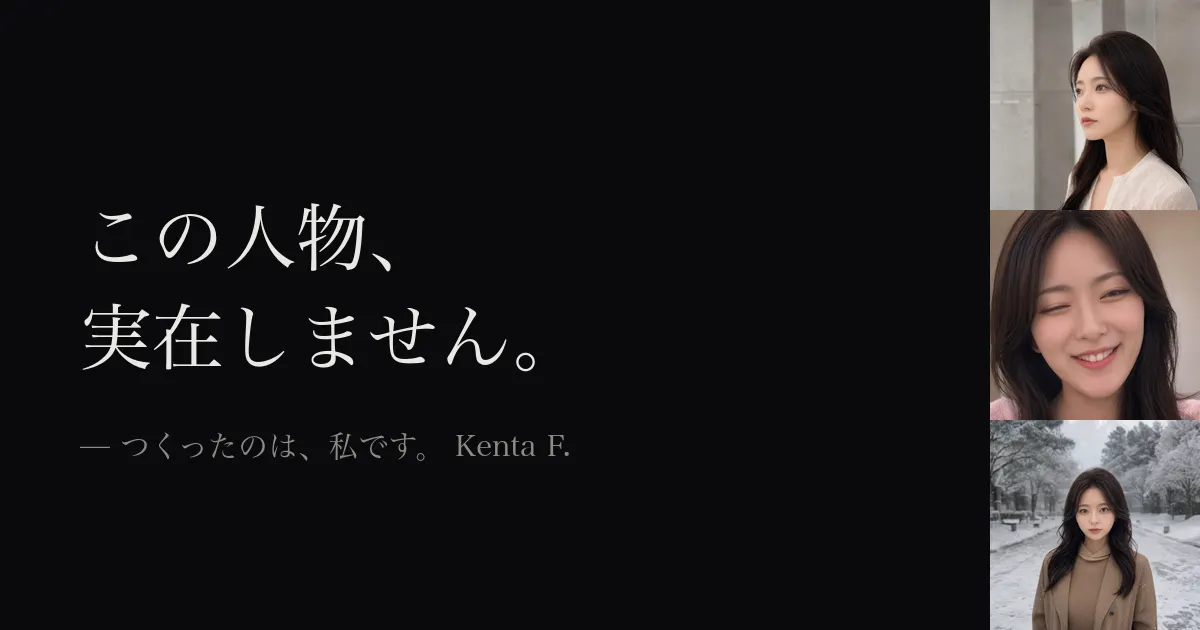
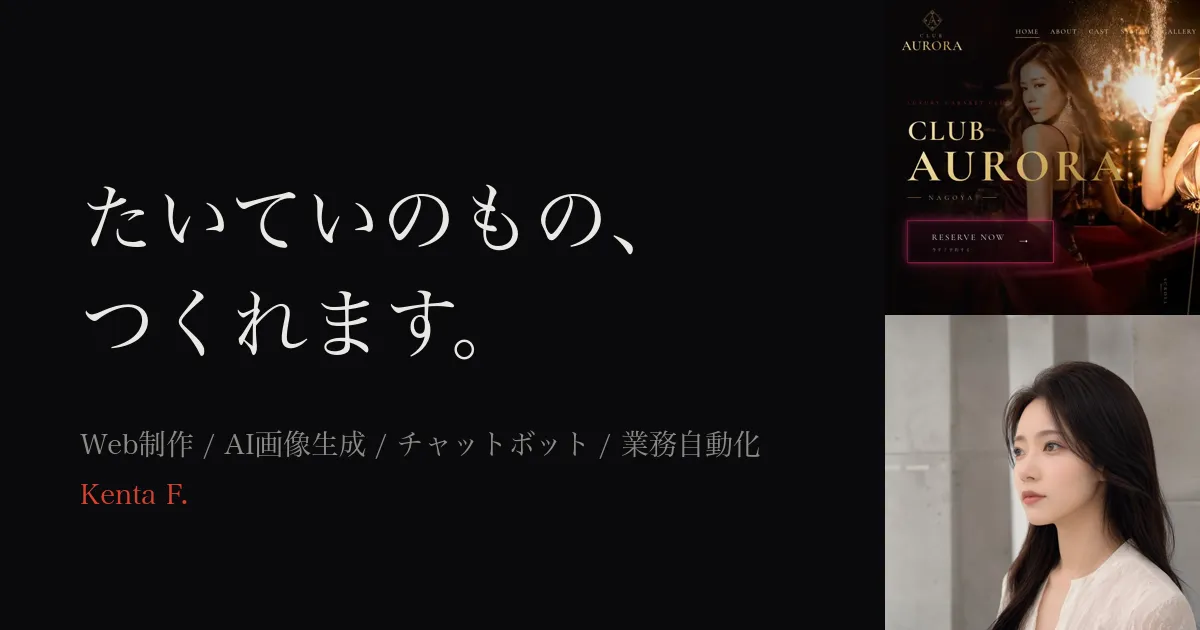
v2: capability card layout (web/AI/chatbot/automation)

diff --git a/index.html b/index.html
@@ -3,14 +3,14 @@
 <head>
 <meta charset="UTF-8">
 <meta name="viewport" content="width=device-width, initial-scale=1.0, viewport-fit=cover">
-<title>この人物、実在しません。— Kenta F.</title>
-<meta name="description" content="実在しない人物をAIで作り、SNSで運用しています。AIキャラクター制作・AI動画生成・業務自動化。Kenta F. の紹介ページ。">
+<title>たいていのもの、つくれます。— Kenta F.</title>
+<meta name="description" content="Webサイト制作・AI画像/キャラクター制作・チャットボット開発・業務自動化。Kenta F. のできることの名刺ページ。">
 <meta name="theme-color" content="#0a0a0c">
 
-<!-- OGP（デプロイ後に og:url / og:image を実URLへ差し替え） -->
+<!-- OGP -->
 <meta property="og:type" content="website">
-<meta property="og:title" content="この人物、実在しません。">
-<meta property="og:description" content="実在しない人物をAIで作って、SNSで運用しています。— Kenta F. / AIクリエイター・自動化エンジニア">
+<meta property="og:title" content="たいていのもの、つくれます。">
+<meta property="og:description" content="Web制作 / AI画像生成 / チャットボット / 業務自動化 — Kenta F.">
 <meta property="og:url" content="https://k243k.github.io/intro/">
 <meta property="og:image" content="https://k243k.github.io/intro/assets/og.webp">
 <meta name="twitter:card" content="summary_large_image">
@@ -36,53 +36,51 @@ body{
 img,video{display:block;max-width:100%;height:auto}
 a{color:inherit}
 
-/* ===== ヒーロー ===== */
-.hero{position:relative;min-height:100svh;overflow:hidden;display:flex;align-items:flex-end}
-.hero-grid{
-  position:absolute;inset:0;width:100%;height:100%;
-  object-fit:cover;object-position:center 20%;
-}
-.hero-veil{
-  position:absolute;inset:0;
-  background:linear-gradient(180deg,rgba(10,10,12,.25) 0%,rgba(10,10,12,.05) 35%,rgba(10,10,12,.55) 70%,rgba(10,10,12,.96) 100%);
-}
-.hero-inner{
-  position:relative;width:100%;
-  padding:0 24px calc(40px + env(safe-area-inset-bottom));
+/* ===== ヒーロー（タイポグラフィ主体・即時描画） ===== */
+.hero{
+  position:relative;min-height:92svh;overflow:hidden;
+  display:flex;flex-direction:column;justify-content:center;
+  padding:0 28px;
+  background:
+    radial-gradient(120% 90% at 80% 0%,#16161c 0%,var(--bg) 55%),
+    var(--bg);
 }
 .hero h1{
   font-family:var(--serif);font-weight:600;
-  font-size:clamp(30px,9vw,64px);line-height:1.45;letter-spacing:.06em;
-  opacity:0;animation:rise .9s ease-out .15s forwards;
+  font-size:clamp(34px,10vw,72px);line-height:1.5;letter-spacing:.06em;
+  opacity:0;animation:rise .9s ease-out .1s forwards;
 }
-.hero .turn{
-  margin-top:14px;font-family:var(--serif);
-  font-size:clamp(15px,4.2vw,22px);letter-spacing:.14em;color:var(--ink);
-  opacity:0;animation:rise .9s ease-out .8s forwards;
+.hero .sub{
+  margin-top:20px;font-size:clamp(13px,3.8vw,16px);
+  color:var(--ink-dim);letter-spacing:.12em;
+  opacity:0;animation:rise .9s ease-out .7s forwards;
 }
 .hero .who{
-  margin-top:26px;display:flex;align-items:baseline;gap:14px;flex-wrap:wrap;
-  opacity:0;animation:rise .9s ease-out 1.3s forwards;
+  margin-top:34px;display:flex;align-items:baseline;gap:14px;flex-wrap:wrap;
+  opacity:0;animation:rise .9s ease-out 1.1s forwards;
 }
-.hero .who .name{font-size:17px;letter-spacing:.18em;font-weight:600}
+.hero .who .name{font-size:18px;letter-spacing:.18em;font-weight:600}
 .hero .who .role{font-size:12px;color:var(--ink-dim);letter-spacing:.16em}
 /* 朱の角印 */
 .seal{
-  position:absolute;right:24px;bottom:calc(140px + env(safe-area-inset-bottom));
+  position:absolute;right:28px;top:calc(12svh + env(safe-area-inset-top));transform:rotate(3deg);
   writing-mode:vertical-rl;font-family:var(--serif);
   font-size:15px;letter-spacing:.3em;color:var(--shu);
   border:1.5px solid var(--shu);padding:12px 7px;line-height:1;
-  transform:rotate(3deg);opacity:0;animation:stamp .5s ease-out 1.9s forwards;
+  opacity:0;animation:stamp .5s ease-out 1.6s forwards;
 }
 @keyframes rise{from{opacity:0;transform:translateY(16px)}to{opacity:1;transform:none}}
-@keyframes stamp{from{opacity:0;transform:rotate(3deg) scale(1.6)}to{opacity:.92;transform:rotate(3deg) scale(1)}}
+@keyframes stamp{
+  from{opacity:0;transform:rotate(3deg) scale(1.6)}
+  to{opacity:.92;transform:rotate(3deg) scale(1)}
+}
 @media (prefers-reduced-motion:reduce){
-  .hero h1,.hero .turn,.hero .who,.seal{animation:none;opacity:1}
+  .hero h1,.hero .sub,.hero .who,.seal{animation:none;opacity:1}
 }
 
 /* ===== 本文共通 ===== */
 main{max-width:680px;margin:0 auto;padding:0 24px}
-section{padding:72px 0 0}
+section{padding:76px 0 0}
 .idx{
   font-family:var(--serif);font-size:12px;letter-spacing:.3em;
   color:var(--shu);margin-bottom:14px;
@@ -96,21 +94,33 @@ h2{
 figure{margin-top:28px}
 figcaption{font-size:11px;color:var(--ink-dim);letter-spacing:.12em;margin-top:10px}
 
-/* スクロールリビール（JS有効時のみ隠す。JS無効でも全文表示される） */
+/* スクロールリビール（JS有効時のみ隠す） */
 .js .rv{opacity:0;transform:translateY(18px);transition:opacity .8s ease,transform .8s ease}
 .js .rv.in{opacity:1;transform:none}
 @media (prefers-reduced-motion:reduce){.js .rv{opacity:1;transform:none;transition:none}}
 
-/* ビフォーアフター */
-.ba{display:grid;grid-template-columns:1fr 1fr;gap:10px}
-.ba img{width:100%;aspect-ratio:4/5;object-fit:cover;background:var(--bg2)}
-.ba .tag{font-size:10px;letter-spacing:.26em;color:var(--ink-dim);margin-top:8px}
+/* 実物メディア */
+.shot img,.shot video{width:100%;aspect-ratio:4/5;object-fit:cover;background:var(--bg2)}
 
-/* 動画 */
-.demo video{width:100%;aspect-ratio:4/5;object-fit:cover;background:var(--bg2)}
+/* チャットモック */
+.chat{
+  margin-top:28px;border:1px solid var(--line);background:var(--bg2);
+  padding:24px 18px;display:flex;flex-direction:column;gap:12px;
+}
+.chat .b{
+  max-width:78%;padding:10px 14px;font-size:13px;line-height:1.7;
+  border-radius:14px;
+}
+.chat .user{align-self:flex-end;background:#26262e;border-bottom-right-radius:4px}
+.chat .bot{align-self:flex-start;background:#1a1a20;border:1px solid var(--line);border-bottom-left-radius:4px}
+.chat .bot::before{
+  content:"AI";display:inline-block;margin-right:8px;
+  font-size:9px;letter-spacing:.18em;color:var(--shu);
+  border:1px solid var(--shu);padding:1px 5px;border-radius:3px;vertical-align:1px;
+}
 
 /* 自己紹介 */
-.about{border-top:1px solid var(--line);margin-top:80px;padding-top:64px}
+.about{border-top:1px solid var(--line);margin-top:84px;padding-top:64px}
 .about p{font-family:var(--serif);font-size:clamp(16px,4.4vw,19px);line-height:2.3;letter-spacing:.08em}
 
 /* 連絡 */
@@ -136,7 +146,7 @@ footer{
 }
 
 @media (min-width:720px){
-  .hero-inner{padding:0 48px 64px}
+  .hero{padding:0 48px}
   .seal{right:48px}
 }
 </style>
@@ -144,57 +154,56 @@ footer{
 <body>
 
 <header class="hero">
-  <img class="hero-grid" src="./assets/grid.webp" alt="AIで生成した同一人物の顔グリッド" width="1080" height="1080" fetchpriority="high">
-  <div class="hero-veil"></div>
-  <p class="seal">非実在</p>
-  <div class="hero-inner">
-    <h1>この人物、<br>実在しません。</h1>
-    <p class="turn">— つくったのは、私です。</p>
-    <p class="who">
-      <span class="name">Kenta F.</span>
-      <span class="role">AIクリエイター / 自動化エンジニア</span>
-    </p>
-  </div>
+  <p class="seal">自家製</p>
+  <h1>たいていのもの、<br>つくれます。</h1>
+  <p class="sub">Webサイトも、AIも、毎日の面倒な作業の自動化も。</p>
+  <p class="who">
+    <span class="name">Kenta F.</span>
+    <span class="role">Web制作 / AI活用 / 業務自動化</span>
+  </p>
 </header>
 
 <main>
   <section class="rv">
     <p class="idx">01</p>
-    <h2>実在しない人物を、<br>作って動かす</h2>
-    <p class="note">1枚の設計から、同じ顔をどんな場面でも生成できます。この人物はSNSアカウントとして実際に運用中です。</p>
-    <figure>
-      <div class="ba">
-        <div>
-          <img src="./assets/before.webp" alt="調整前の生成画像" width="800" height="1000" loading="lazy">
-          <p class="tag">BEFORE</p>
-        </div>
-        <div>
-          <img src="./assets/after.webp" alt="顔の一貫性を保った生成画像" width="800" height="1000" loading="lazy">
-          <p class="tag">AFTER</p>
-        </div>
-      </div>
-      <figcaption>同一人物として成立させる「顔の一貫性」が技術の核です。</figcaption>
+    <h2>Webサイト・LP制作</h2>
+    <p class="note">デザインから実装・公開まで、ひとりで完結します。下は架空の高級ラウンジのサンプルサイト。中の人物写真もぜんぶAI生成です。</p>
+    <figure class="shot">
+      <video src="./assets/work-web.mp4" muted loop playsinline preload="none" aria-label="制作したWebサイトのスクロールデモ動画"></video>
+      <figcaption>サンプルサイト「CLUB AURORA」（架空店舗）/ 12秒ループ</figcaption>
     </figure>
   </section>
 
   <section class="rv">
     <p class="idx">02</p>
-    <h2>どんな場面にも、現れる</h2>
-    <p class="note">カフェ、雨の街、雪の並木道。撮影なし、モデルなし、すべて生成です。しゃべって動く動画版も、いま制作中。</p>
-    <figure class="demo">
-      <video src="./assets/demo.mp4" muted loop playsinline preload="none" aria-label="AI生成画像によるシーンモンタージュ動画"></video>
-      <figcaption>6秒ループ / 全コマAI生成画像</figcaption>
+    <h2>AI画像・キャラクター制作</h2>
+    <p class="note">この9枚、全員同一人物で、全員実在しません。同じ顔をどんな場面でも生成し、SNSアカウントとして実際に運用しています。</p>
+    <figure class="shot">
+      <img src="./assets/grid.webp" alt="AIで生成した同一人物の顔グリッド9枚" width="1080" height="1080" loading="lazy">
+      <figcaption>同一人物 × 9シーン / すべてAI生成</figcaption>
     </figure>
   </section>
 
   <section class="rv">
     <p class="idx">03</p>
-    <h2>面倒な作業を、<br>コードで消す</h2>
-    <p class="note">投稿も、集計も、レポートも。AIに任せる「仕組みごと」自分で作っています。画像を作るだけでなく、回し続けるのが本業です。</p>
+    <h2>チャットボット・LINE Bot開発</h2>
+    <p class="note">お店やサービスの質問に24時間答えるAI接客ボットを作ります。LINE公式アカウントへの組み込みまで対応。</p>
+    <div class="chat" role="img" aria-label="AIチャットボットの会話例">
+      <p class="b user">今日って何時までやってますか？</p>
+      <p class="b bot">本日は22時まで営業しています。ラストオーダーは21時30分です。</p>
+      <p class="b user">2名、20時で入れます？</p>
+      <p class="b bot">ご案内できます。お名前だけお伺いしてもよろしいですか？</p>
+    </div>
+  </section>
+
+  <section class="rv">
+    <p class="idx">04</p>
+    <h2>業務自動化・データ収集</h2>
+    <p class="note">ECの市場データを24時間自動で集め続ける仕組みや、紙の書類をデータ化するツールを自作して動かしています。「毎日やってる面倒なアレ」を、コードで消すのが得意です。</p>
   </section>
 
   <section class="about rv">
-    <p>大阪でAIと遊んでいるうちに、遊びがだんだん仕事になってきた人です。「これってAIでできる？」くらいの雑な相談がいちばん好きです。</p>
+    <p>大阪で、WebとAIと自動化をひとりでやっています。「これってできる？」くらいの雑な相談がいちばん好きです。</p>
   </section>
 
   <section class="contact rv">
@@ -206,7 +215,7 @@ footer{
   </section>
 </main>
 
-<footer>KENTA F. — ALL IMAGES GENERATED BY AI</footer>
+<footer>KENTA F. — ALL PORTRAIT IMAGES ARE AI-GENERATED</footer>
 
 <script>
 (function () {